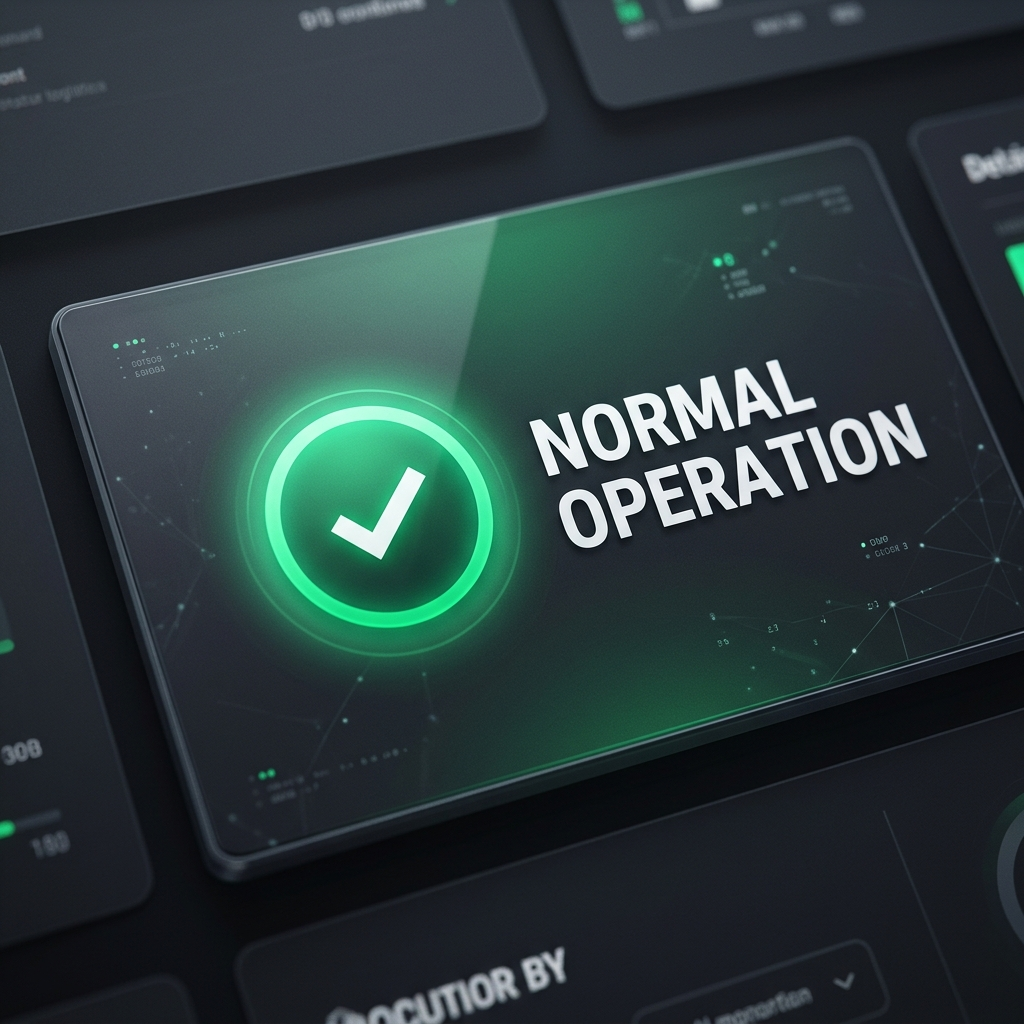
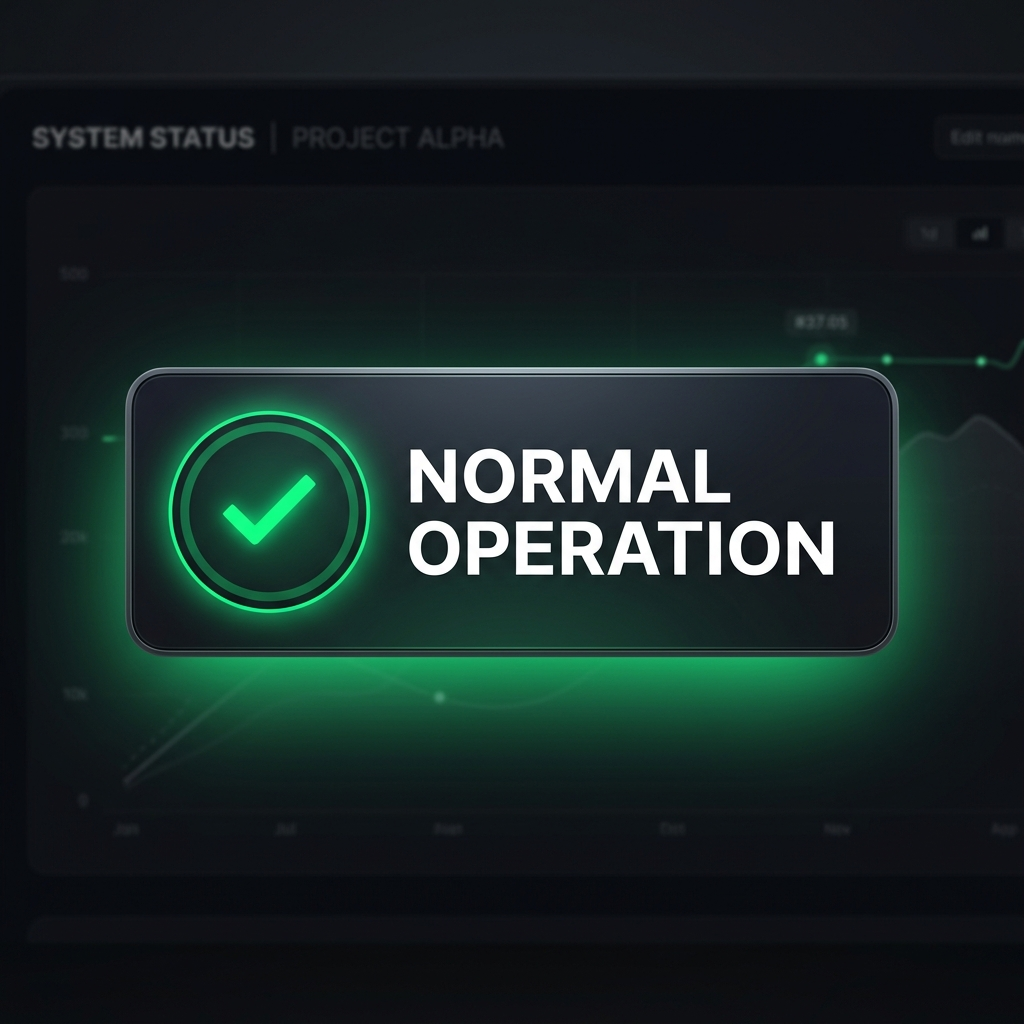
Fix mermaid syntax and update dashboard/normal operation visuals

diff --git a/README.md b/README.md
@@ -82,7 +82,7 @@ graph LR
 
     subgraph Core Processing
         MCU[ESP32-C3-MINI-1<br>RISC-V MCU]:::mcu
-        DISP[1.54" E-Ink<br>Zero-Power Display]:::sensor
+        DISP[1.54-inch E-Ink<br>Zero-Power Display]:::sensor
     end
 
     subgraph Environmental Sensors